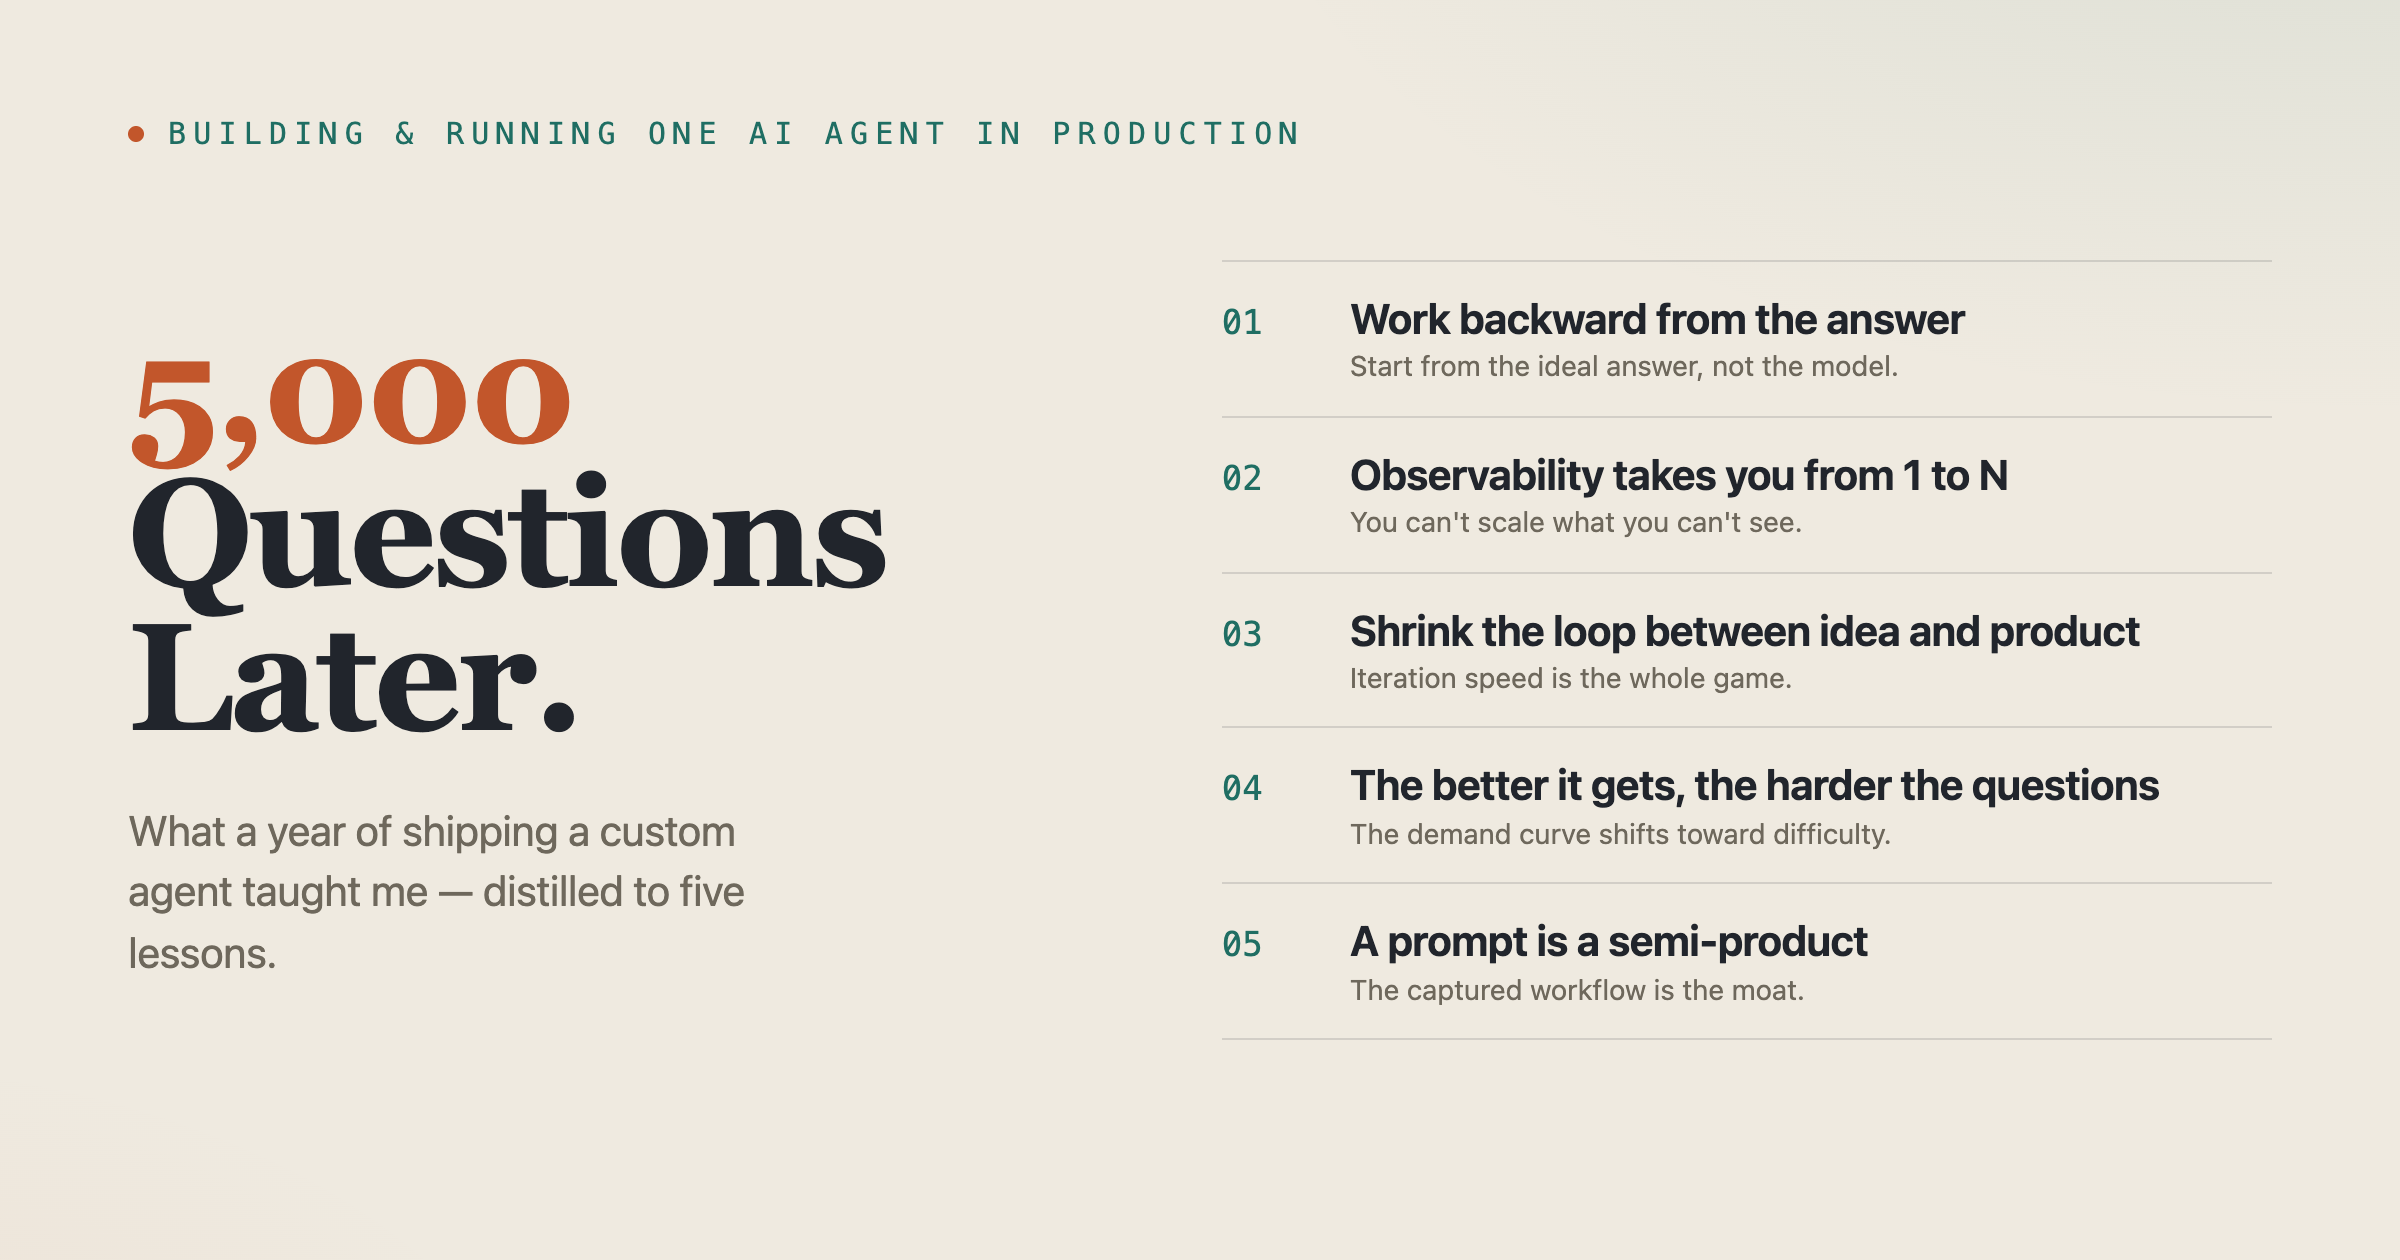
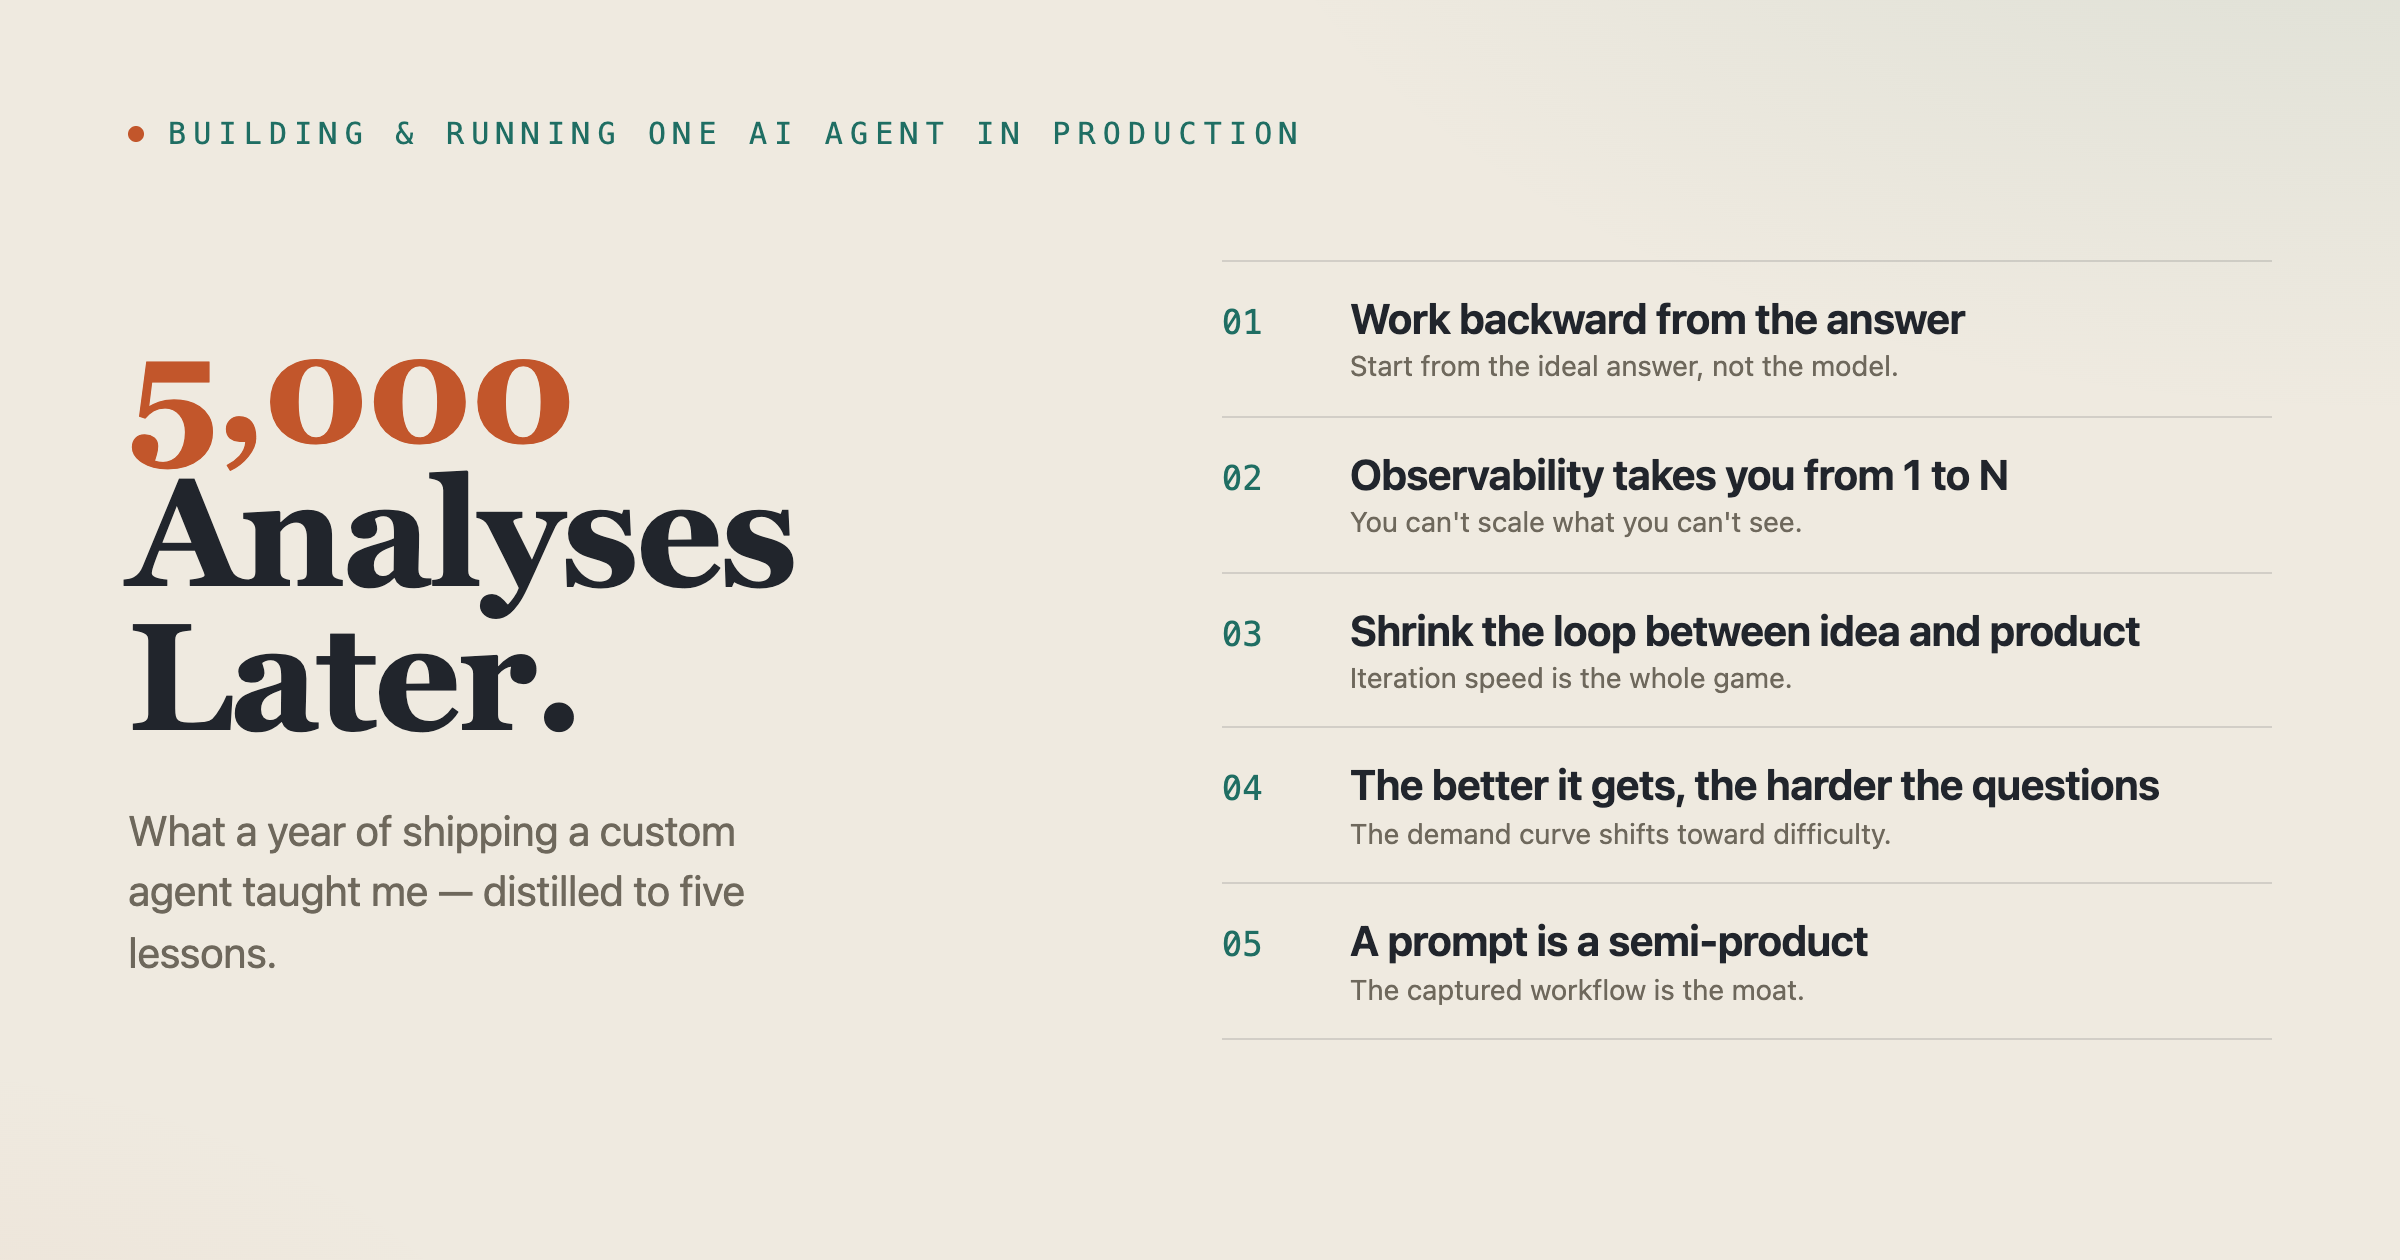
Update cover image to '5,000 Analyses Later' to match post title

Changed region(s): [[0.0312, 0.3714, 0.375, 0.4952]]

diff --git a/_site/blog/index.html b/_site/blog/index.html
@@ -206,7 +206,7 @@ window.Quarto = {
 <!-- margin-sidebar -->
     <div id="quarto-margin-sidebar" class="sidebar margin-sidebar">
         
-    <h5 class="quarto-listing-category-title">Categories</h5><div class="quarto-listing-category category-default"><div class="category" data-category="">All <span class="quarto-category-count">(6)</span></div><div class="category" data-category="YWdlbnRpY3dvcmtmbG93">agenticworkflow <span class="quarto-category-count">(2)</span></div><div class="category" data-category="YWdlbnRz">agents <span class="quarto-category-count">(1)</span></div><div class="category" data-category="Z2VuYWk=">genai <span class="quarto-category-count">(2)</span></div><div class="category" data-category="b3B0aW9u">option <span class="quarto-category-count">(1)</span></div><div class="category" data-category="cmw=">rl <span class="quarto-category-count">(2)</span></div></div></div>
+    <h5 class="quarto-listing-category-title">Categories</h5><div class="quarto-listing-category category-default"><div class="category" data-category="">All <span class="quarto-category-count">(7)</span></div><div class="category" data-category="YWdlbnRpY3dvcmtmbG93">agenticworkflow <span class="quarto-category-count">(2)</span></div><div class="category" data-category="YWdlbnRz">agents <span class="quarto-category-count">(1)</span></div><div class="category" data-category="Z2VuYWk=">genai <span class="quarto-category-count">(2)</span></div><div class="category" data-category="b3B0aW9u">option <span class="quarto-category-count">(1)</span></div><div class="category" data-category="cmw=">rl <span class="quarto-category-count">(2)</span></div></div></div>
 <!-- main -->
 <main class="content" id="quarto-document-content">
 
@@ -235,7 +235,23 @@ window.Quarto = {
 
 <div class="quarto-listing quarto-listing-container-default" id="listing-listing">
 <div class="list quarto-listing-default">
-<div class="quarto-post image-right" data-index="0" data-categories="Z2VuYWklMkNhZ2VudHM=" data-listing-date-sort="1780610400000" data-listing-file-modified-sort="1782465442218" data-listing-date-modified-sort="NaN" data-listing-reading-time-sort="6" data-listing-word-count-sort="1161">
+<div class="quarto-post image-right" data-index="0" data-listing-file-modified-sort="1782470936488">
+<div class="thumbnail"><a href="../blog/ai_agent_in_production/index.html" class="no-external">
+
+</a></div>
+<div class="body">
+<h3 class="no-anchor listing-title">
+<a href="../blog/ai_agent_in_production/index.html" class="no-external"></a>
+</h3>
+<div class="delink listing-description"><a href="../blog/ai_agent_in_production/index.html" class="no-external">
+</a></div>
+</div>
+<div class="metadata">
+<a href="../blog/ai_agent_in_production/index.html" class="no-external">
+</a>
+</div>
+</div>
+<div class="quarto-post image-right" data-index="1" data-categories="Z2VuYWklMkNhZ2VudHM=" data-listing-date-sort="1780610400000" data-listing-file-modified-sort="1782465442218" data-listing-date-modified-sort="NaN" data-listing-reading-time-sort="6" data-listing-word-count-sort="1161">
 <div class="thumbnail"><a href="../blog/ai_agent_in_production/index.html" class="no-external">
 
 <img loading="lazy" src="../blog/ai_agent_in_production/cover.png" class="thumbnail-image" style="height: 120px;">
@@ -257,7 +273,7 @@ For the past year, I was building a AI Agent and puting it in production: a cust
 </a>
 </div>
 </div>
-<div class="quarto-post image-right" data-index="1" data-categories="cmwlMkNvcHRpb24=" data-listing-date-sort="1753048800000" data-listing-file-modified-sort="1772651098072" data-listing-date-modified-sort="NaN" data-listing-reading-time-sort="17" data-listing-word-count-sort="3278">
+<div class="quarto-post image-right" data-index="2" data-categories="cmwlMkNvcHRpb24=" data-listing-date-sort="1753048800000" data-listing-file-modified-sort="1772651098072" data-listing-date-modified-sort="NaN" data-listing-reading-time-sort="17" data-listing-word-count-sort="3278">
 <div class="thumbnail"><a href="../blog/rl_for_option/index.html" class="no-external">
 
 <img loading="lazy" src="../blog/rl_for_option/cover_image.png" class="thumbnail-image" style="height: 120px;">
@@ -279,7 +295,7 @@ For the past year, I was building a AI Agent and puting it in production: a cust
 </a>
 </div>
 </div>
-<div class="quarto-post image-right" data-index="2" data-categories="Z2VuYWk=" data-listing-date-sort="1738278000000" data-listing-file-modified-sort="1772651098062" data-listing-date-modified-sort="NaN" data-listing-reading-time-sort="9" data-listing-word-count-sort="1743">
+<div class="quarto-post image-right" data-index="3" data-categories="Z2VuYWk=" data-listing-date-sort="1738278000000" data-listing-file-modified-sort="1772651098062" data-listing-date-modified-sort="NaN" data-listing-reading-time-sort="9" data-listing-word-count-sort="1743">
 <div class="thumbnail"><a href="../blog/4waysgenai/index.html" class="no-external">
 
 <img loading="lazy" src="../blog/4waysgenai/chartofgpt.png" class="thumbnail-image" style="height: 120px;">
@@ -301,7 +317,7 @@ For the past year, I was building a AI Agent and puting it in production: a cust
 </a>
 </div>
 </div>
-<div class="quarto-post image-right" data-index="3" data-categories="YWdlbnRpY3dvcmtmbG93" data-listing-date-sort="1738018800000" data-listing-file-modified-sort="1772651098081" data-listing-date-modified-sort="NaN" data-listing-reading-time-sort="6" data-listing-word-count-sort="1035">
+<div class="quarto-post image-right" data-index="4" data-categories="YWdlbnRpY3dvcmtmbG93" data-listing-date-sort="1738018800000" data-listing-file-modified-sort="1772651098081" data-listing-date-modified-sort="NaN" data-listing-reading-time-sort="6" data-listing-word-count-sort="1035">
 <div class="thumbnail"><a href="../blog/simplelanggraph/index.html" class="no-external">
 
 <p class="card-img-top"><img src="simplelanggraph/index_files/figure-html/cell-8-1-image.png" style="height: 120px;"  class="thumbnail-image card-img"/></p>
@@ -323,7 +339,7 @@ These days there is a lot of discussion about AI agents, and it seems to be beco
 </a>
 </div>
 </div>
-<div class="quarto-post image-right" data-index="4" data-categories="YWdlbnRpY3dvcmtmbG93" data-listing-date-sort="1736118000000" data-listing-file-modified-sort="1772651098064" data-listing-date-modified-sort="NaN" data-listing-reading-time-sort="6" data-listing-word-count-sort="1174">
+<div class="quarto-post image-right" data-index="5" data-categories="YWdlbnRpY3dvcmtmbG93" data-listing-date-sort="1736118000000" data-listing-file-modified-sort="1772651098064" data-listing-date-modified-sort="NaN" data-listing-reading-time-sort="6" data-listing-word-count-sort="1174">
 <div class="thumbnail"><a href="../blog/anthropic_effective_agent/index.html" class="no-external">
 
 <img loading="lazy" src="../blog/anthropic_effective_agent/augllm.png" class="thumbnail-image" style="height: 120px;">
@@ -345,7 +361,7 @@ These days there is a lot of discussion about AI agents, and it seems to be beco
 </a>
 </div>
 </div>
-<div class="quarto-post image-right" data-index="5" data-categories="cmw=" data-listing-date-sort="1731625200000" data-listing-file-modified-sort="1772651098063" data-listing-date-modified-sort="NaN" data-listing-reading-time-sort="4" data-listing-word-count-sort="798">
+<div class="quarto-post image-right" data-index="6" data-categories="cmw=" data-listing-date-sort="1731625200000" data-listing-file-modified-sort="1772651098063" data-listing-date-modified-sort="NaN" data-listing-reading-time-sort="4" data-listing-word-count-sort="798">
 <div class="thumbnail"><a href="../blog/RLHF/index.html" class="no-external">
 
 <img loading="lazy" src="../blog/RLHF/rlhf3.png" class="thumbnail-image" style="height: 120px;">
